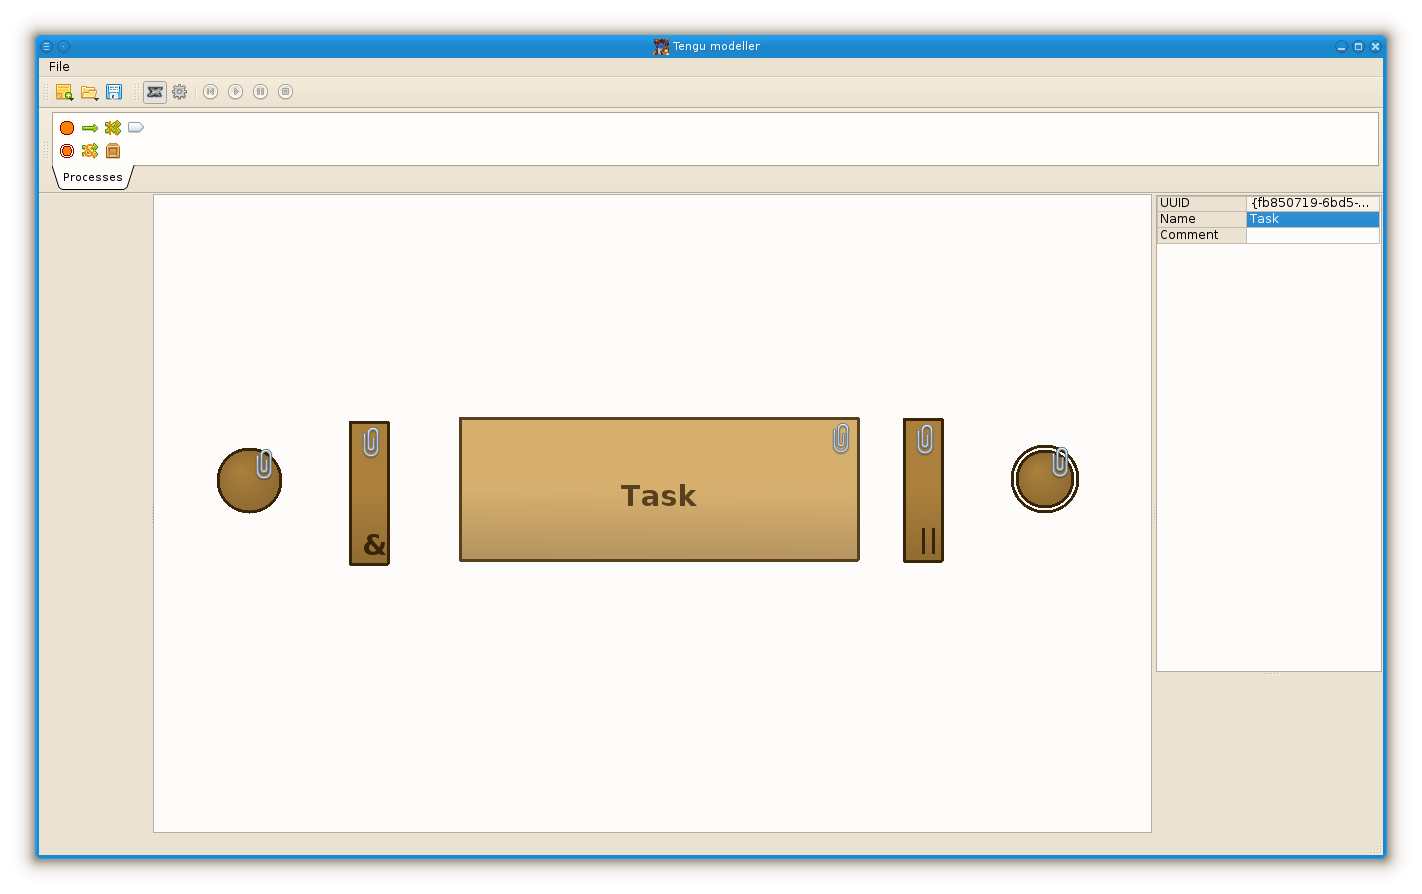
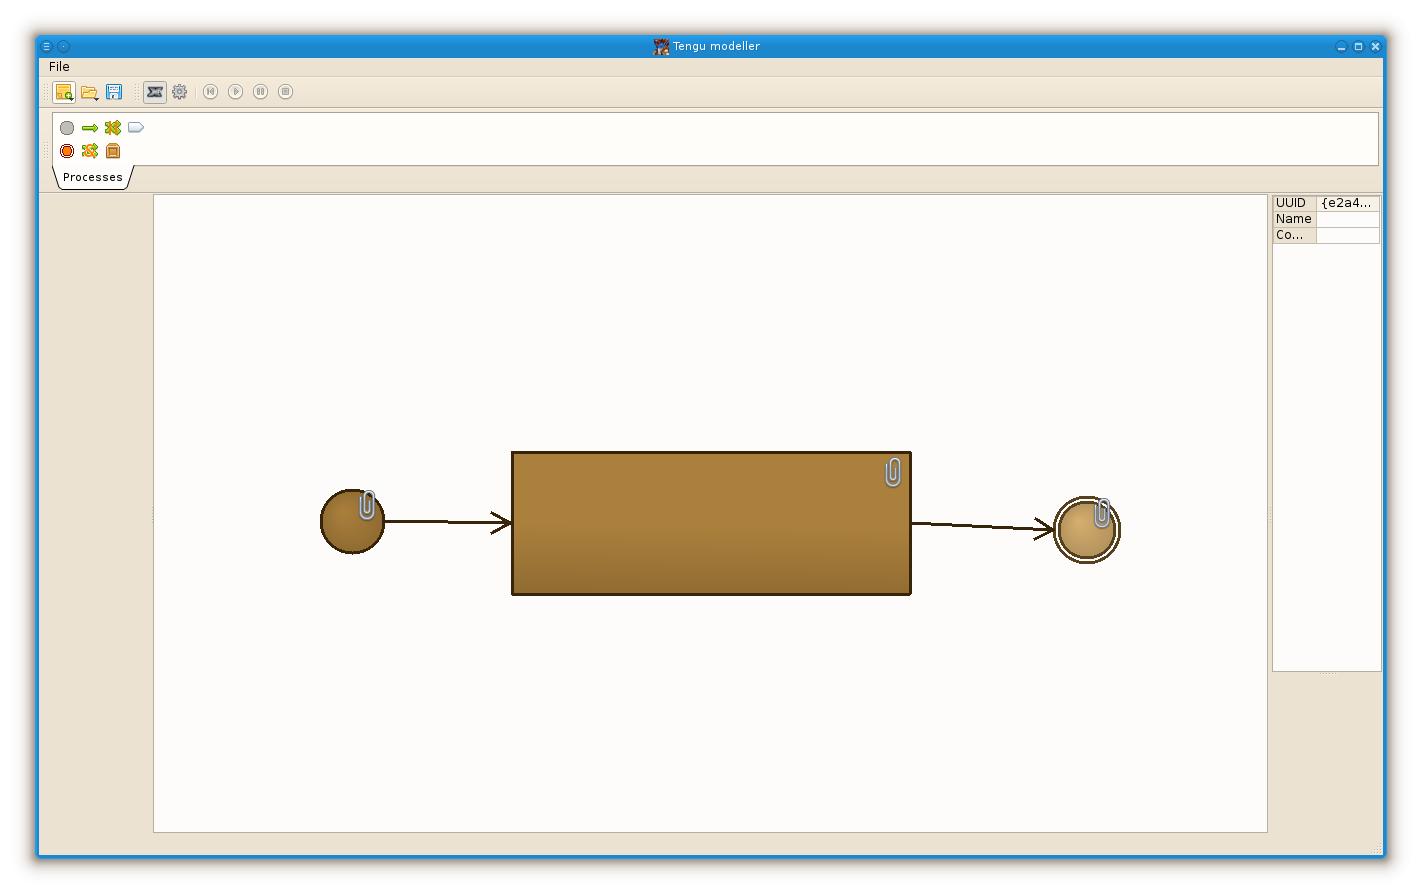
The noses for the arrows

Changed region(s): [[0.1547, 0.2114, 0.9902, 0.9362], [0.0309, 0.0906, 0.0619, 0.151]]

diff --git a/tengu/guis/tengu_modeller/src/schema/LinkItem.cpp b/tengu/guis/tengu_modeller/src/schema/LinkItem.cpp
@@ -185,17 +185,27 @@ void tengu::LinkItem::__recalculate() {
                 
                 x = fromRect.topRight().x() + __from->x();
                 y = fromRect.topRight().y() + __from->y();
-                w = ( toRect.topLeft().x() + __to->x() ) - ( fromRect.topRight().x() + __from->x() );
-                h = 100;
+                if ( y > toRect.topLeft().y() + __to->y() ) {
+                    y = toRect.topLeft().y() + __to->y();
+                };
+                
+                w = ( toRect.topLeft().x() + __to->x() ) - ( fromRect.topRight().x() + __from->x() );                
+                h = fromRect.bottomRight().y() + __from->y() - y;
+                if ( h < toRect.bottomRight().y() + __to->y() - y ) h = toRect.bottomRight().y() + __to->y() - y;
+                
+                __posFrom.setX( 1 );
+                __posFrom.setY( ( fromRect.topRight().y() + __from->y() - y ) + fromRect.height() / 2 );
+                __posTo.setX( w - 1 );
+                __posTo.setY( ( __to->y() + toRect.height() / 2 ) - y );
                 
             } else {
-                qDebug() << "to не правее по X";
+                // qDebug() << "to не правее по X";
             };
             
         };
     };                
     
-    qDebug() << "Итого после recalculate x=" << x << ",y=" << y << ",w=" << w << ",h=" << h << ", fromPoint=" << __posFrom << ", toPoint=" << __posTo;
+    // qDebug() << "Итого после recalculate x=" << x << ",y=" << y << ",w=" << w << ",h=" << h << ", fromPoint=" << __posFrom << ", toPoint=" << __posTo;
     
     setX( x );
     setY( y );
@@ -212,14 +222,16 @@ void tengu::LinkItem::__recalculate() {
 // *                                                                                                                  *
 // ********************************************************************************************************************
 
-void tengu::LinkItem::paint ( QPainter* painter, const QStyleOptionGraphicsItem* option, QWidget* widget ) {
+void tengu::LinkItem::paint ( QPainter * painter, const QStyleOptionGraphicsItem * option, QWidget * widget ) {
+    
+    if ( ( __posFrom.x() == 0 ) && ( __posFrom.y() == 0 ) && ( __posTo.x() == 0 ) && ( __posTo.y() == 0 ) ) return;
     
     _storePainterSettings( painter );
     
     // -----------------------------------------------
     // For debug purposes, do not remove it.
     // Для отладки, не удаляй.
-    if ( ! semiCreated() ) _drawBorderRect( painter );
+    // if ( ! semiCreated() ) _drawBorderRect( painter );
     // -----------------------------------------------
         
     QPen pen;
@@ -240,28 +252,30 @@ void tengu::LinkItem::paint ( QPainter* painter, const QStyleOptionGraphicsItem*
             pen.setWidth( 8 );
         } else {
             pen.setColor( _processDiagram_borderColor() );
-            pen.setWidth( 4 );
+            pen.setWidth( 3 );
         };
         
     }
         
     painter->setPen( pen );
     
-    // qDebug() << "Repaint: from " << __posFrom << ", to=" << __posTo ;
-    
     // The arrow's line
     // Линия стрелки.
     
     painter->drawLine( __posFrom, __posTo );
     
-    // The nose of arrow
-    // Носик стрелки.
+    QLineF line( __posFrom, __posTo );
+    QTransform transform;
+    transform.rotate( - line.angle() );
     
-    // QPoint endT = end + QPoint( -15, -10 );
-    // QPoint endB = end + QPoint( -15, 10 );
+    QPointF endT = ( transform.map( QPointF( -18.0, -10.0 ) ) + __posTo ).toPoint();
+    QPointF endB = ( transform.map( QPointF( -18.0, 10.0 ) ) + __posTo ).toPoint();
     
-    // painter->drawLine( end, endT );
-    // painter->drawLine( end, endB );
+    if ( endT.x() > _boundingRect.width() - 1 ) endT.setX( _boundingRect.width() - 1 );
+    if ( endB.y() > _boundingRect.height() - 1 ) endB.setY ( _boundingRect.height() - 1  );
+    
+    painter->drawLine( __posTo, endT );
+    painter->drawLine( __posTo, endB );
     
     _restorePainterSettings( painter );
     

diff --git a/tengu/guis/tengu_modeller/src/MainWindow.cpp b/tengu/guis/tengu_modeller/src/MainWindow.cpp
@@ -473,7 +473,8 @@ void tengu::MainWindow::__on_schema_item_was_dropped ( tengu::AbstractEntity* en
             // Это - связь, а не агент.
             
             AbstractEntityItem * existing = dynamic_cast<AbstractEntityItem * > ( __schemaScene->itemAt( pos, QTransform() ) );
-            qDebug() << "Existing object=" << existing;
+            
+            // qDebug() << "Existing object=" << existing;
             
             if ( ( link->isEmpty() ) && ( existing ) ) {                
                 link->setFrom( existing );
@@ -710,6 +711,7 @@ void tengu::MainWindow::keyPressEvent ( QKeyEvent* event ) {
         __schemaScene->removeSemiCreatedLinks();
         __schemaView->semiCreatedLink = nullptr;
         __schemaView->update();
+                
     };
 }
 

diff --git a/tengu/guis/tengu_modeller/src/schema/SchemaView.cpp b/tengu/guis/tengu_modeller/src/schema/SchemaView.cpp
@@ -189,7 +189,7 @@ void tengu::SchemaView::mousePressEvent ( QMouseEvent * event ) {
                 semiCreatedLink->show();
                 // semiCreatedLink->update();
                 semiCreatedLink = nullptr;
-                update();                
+                // update();                
                 
             } else {
                 

diff --git a/tengu/guis/tengu_modeller/src/schema/LinkItem.h b/tengu/guis/tengu_modeller/src/schema/LinkItem.h
@@ -9,6 +9,7 @@
 
 #pragma once
 
+#include <QtMath>
 #include "AbstractEntityItem.h"
 
 namespace tengu {
@@ -37,6 +38,7 @@ namespace tengu {
             
             AbstractEntityItem * __from;
             AbstractEntityItem * __to;
+            
             QPoint __posFrom;
             QPoint __posTo;
             

diff --git a/tengu/guis/tengu_modeller/src/MainWindow.h b/tengu/guis/tengu_modeller/src/MainWindow.h
@@ -26,6 +26,7 @@
 #include <QDebug>
 #include <QSettings>
 #include <QRect>
+#include <QDrag>
 
 #include "MongoStorage.h"
 #include "AgentFactory.h"

diff --git a/tengu/guis/tengu_modeller/README.ru.md b/tengu/guis/tengu_modeller/README.ru.md
@@ -7,7 +7,7 @@
 
 # Последние действия.
 
-- **19 июнь 2017** Прекращение создания связи - Escape'ом.
+- **19 июнь 2017** Прекращение создания связи - Escape'ом. Носики для стрелок.
 - **18 июнь 2017** Элементы ANDor, ORer. Измерение имени задачи. Переделанный метод рисования. Создание связи (не закончено).
 - **17 июня 2017** Нарисован элемент "окончание процесса". Передвижение элементов на схеме. Событие сброса на схему. Тулбар "файлы".
 - **16 июня 2017** SchemaView начала принимать событие таскания. Создан элемент "Начало процесса".

diff --git a/tengu/guis/tengu_modeller/README.md b/tengu/guis/tengu_modeller/README.md
@@ -6,7 +6,7 @@ This is graphical tool for work with artifical intelligence models. At the momen
 
 # The latest operations.
 
-- **19 jun 2017** Stoping of the create link process by escape key.
+- **19 jun 2017** Stoping of the create link process by escape key. The noses for the arrows.
 - **18 jun 2017** ANDor, ORer elements. Changing of the task name. Remade painting method. Creating a link (not completed).
 - **17 jun 2017** A stop process element was drawed. Moving elements on the schema. Drop event on schema. "File" toolbar.
 - **16 jun 2017** SchemaView does accept drag events. A start process element was created.
